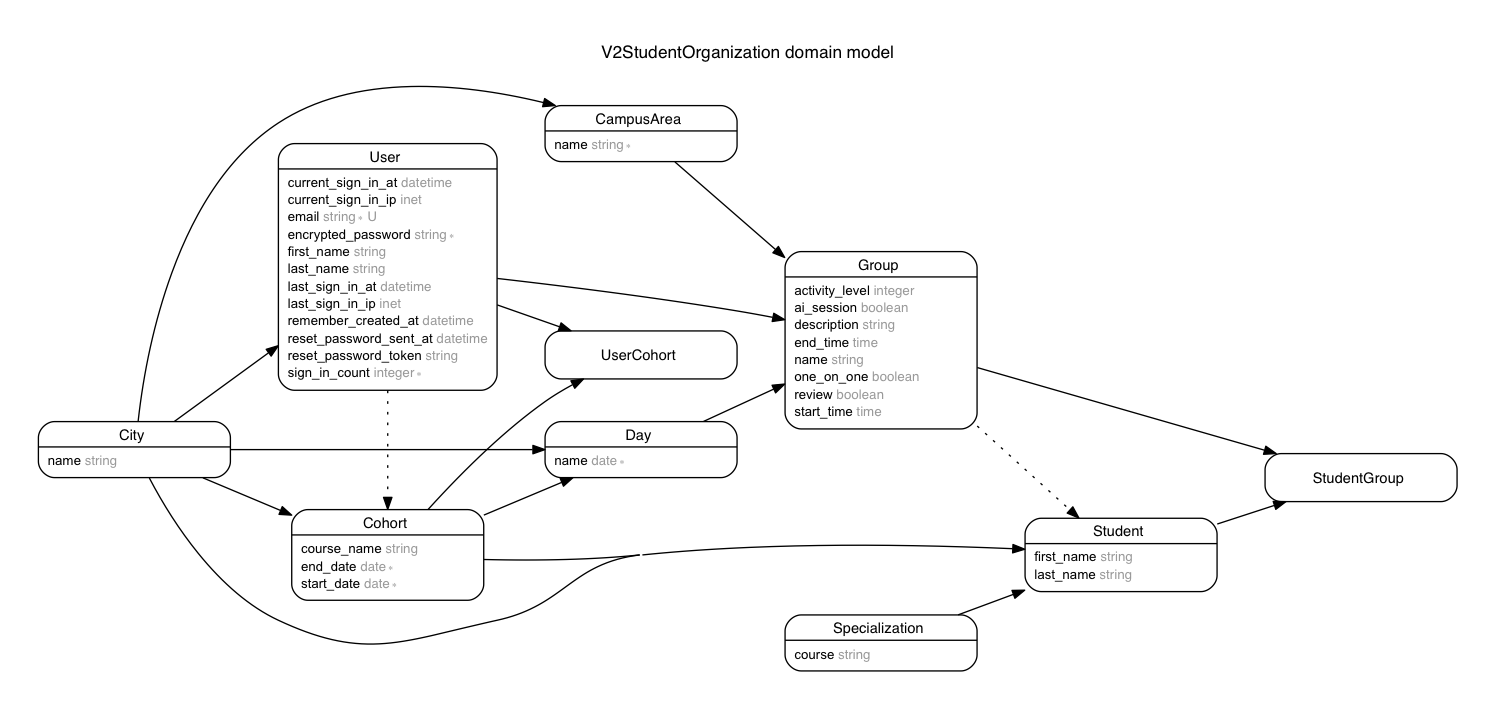
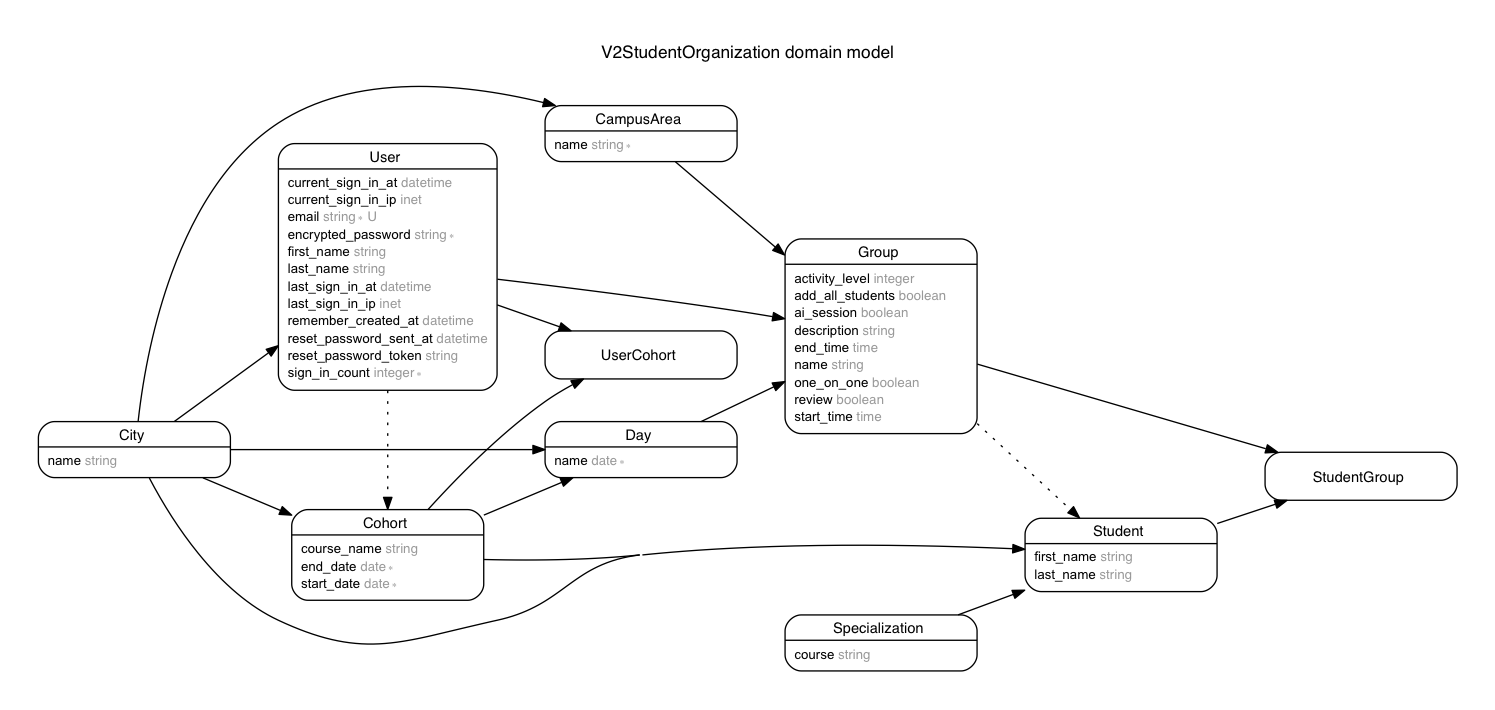
updates erd and readme

diff --git a/README.md b/README.md
@@ -8,13 +8,10 @@ Here's the current data layout for this:
 
 ### Overall
 
-- The UI/entire front end on this pig.
 - Slack API stuff.
-- Ensure that the data structure makes sense
 
 ### Users
 
-- Add auth
 - Add roles
 
 ### Students
@@ -24,4 +21,10 @@ Here's the current data layout for this:
 
 ### Days
 
-- Auto create weekdays during a cohort 
+- Auto create weekdays during a cohort
+
+### Groups
+
+- Fix the jankieness of moving students into and out of groups
+- Delete the student element when dragging from a group
+- Fix the z-value of the divs that are moving somehow.
